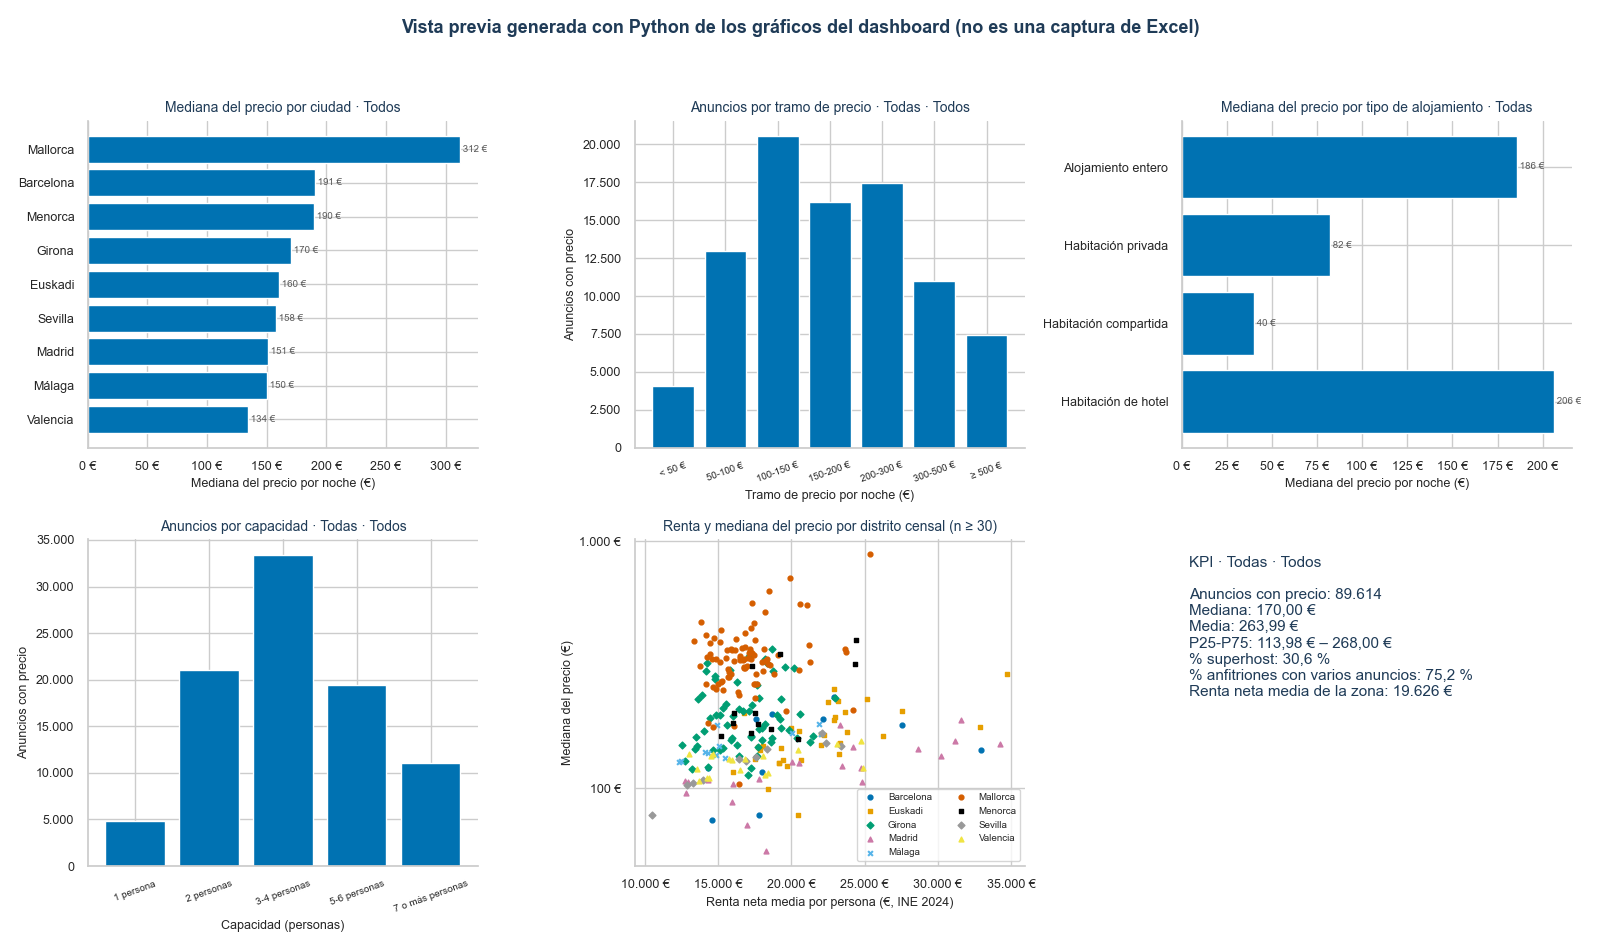
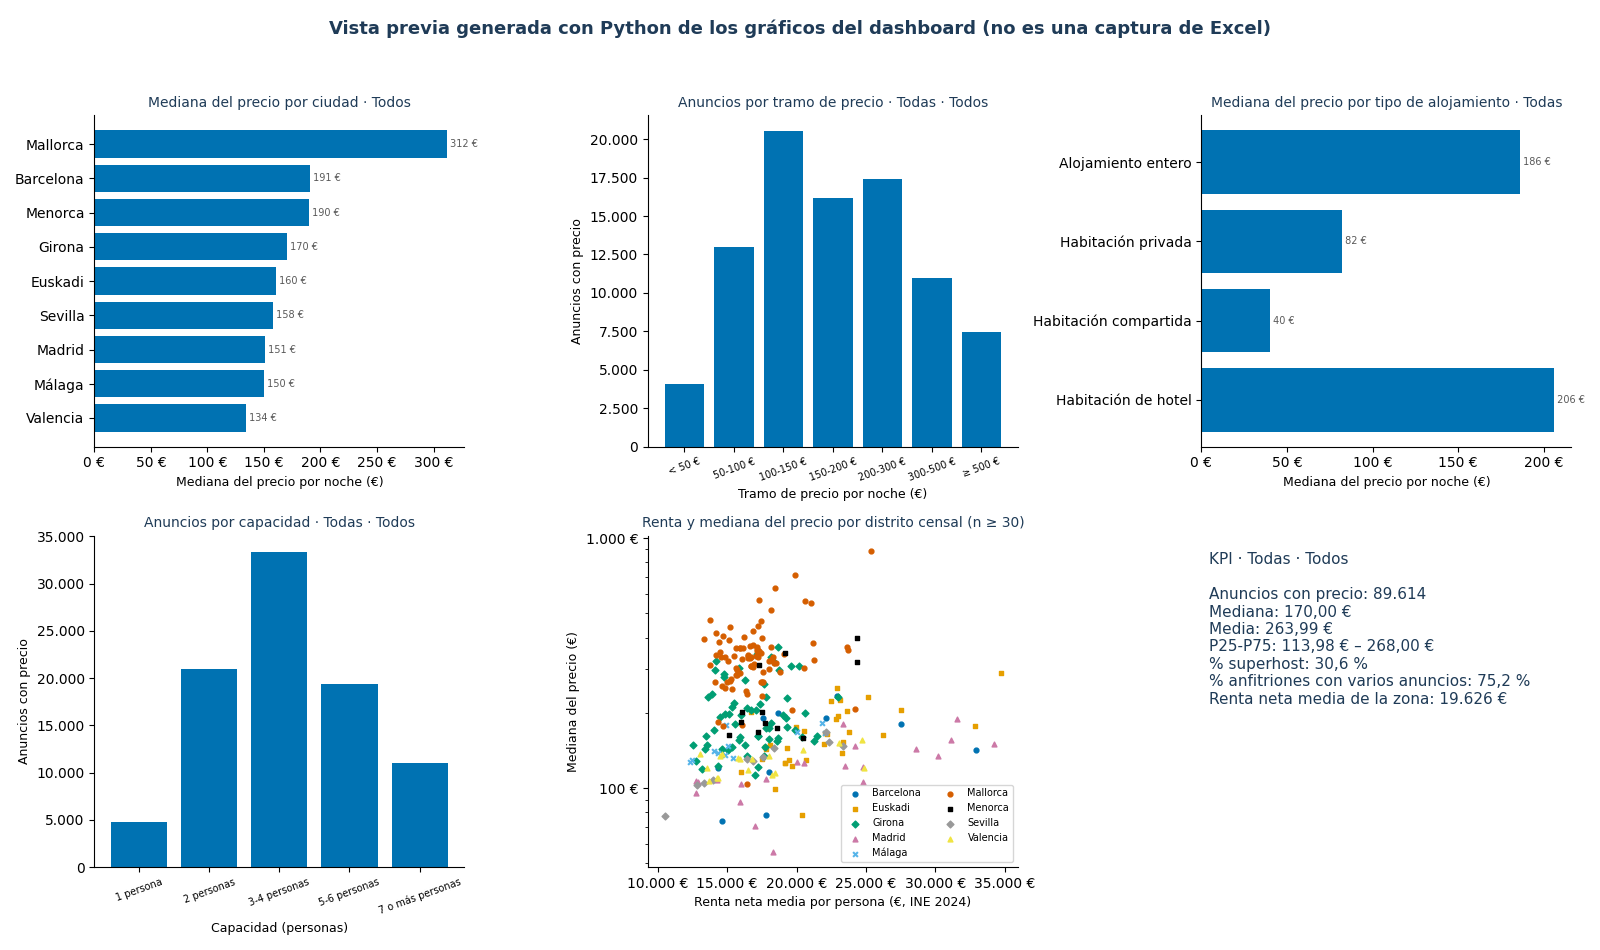
fix: la vista previa del dashboard usa el estilo por defecto de matplotlib y es idéntica dentro y fuera del pipeline

diff --git a/src/dashboard_excel.py b/src/dashboard_excel.py
@@ -964,7 +964,14 @@ def vista_previa(resultado: dict[str, Any], findings: dict[str, Any], ruta: Path
     import matplotlib.pyplot as plt
     from matplotlib.ticker import FuncFormatter
 
-    sel = sel or Seleccion()
+    # Estilo por defecto de matplotlib: la imagen no depende del estilo que hayan fijado otras etapas.
+    with plt.style.context("default"):
+        _dibujar_vista_previa(resultado, findings, ruta, sel or Seleccion(), plt, FuncFormatter)
+
+
+def _dibujar_vista_previa(resultado: dict[str, Any], findings: dict[str, Any], ruta: Path, sel: Seleccion,
+                          plt: Any, FuncFormatter: Any) -> None:  # noqa: N803
+    """Dibuja y guarda la vista previa (llamada dentro de un contexto de estilo fijo)."""
     t, kpi = resultado["tablas"], resultado["kpi"]
     eur = FuncFormatter(lambda x, _: formato.eur0(x))
     miles = FuncFormatter(lambda x, _: formato.n0(x))
